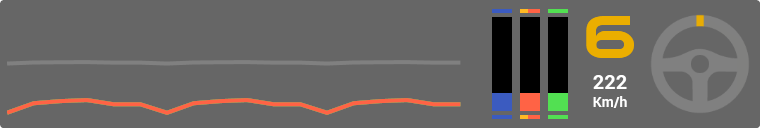
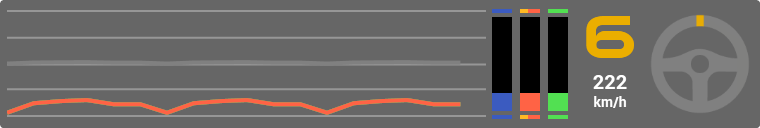
Added Guide Lines to the Input Telemetry overlay

diff --git a/Plugin/SettingsControl.xaml b/Plugin/SettingsControl.xaml
@@ -115,6 +115,13 @@
                                 IsChecked="{Binding Plugin.Modules[TelemetryModule].Settings.HandbrakeTraceVisible, Mode=TwoWay, UpdateSourceTrigger=PropertyChanged}">
                                 Handbrake Trace
                             </styles:SHToggleCheckbox>
+
+                            <styles:SHToggleCheckbox 
+                                ToolTip="Show guide lines on the trace chart" 
+                                HorizontalAlignment="Left" Margin="10,0,4,4"
+                                IsChecked="{Binding Plugin.Modules[TelemetryModule].Settings.GuideLinesVisible, Mode=TwoWay, UpdateSourceTrigger=PropertyChanged}">
+                                Show Guide Lines
+                            </styles:SHToggleCheckbox>
                         </StackPanel>
 
                         <ui:TitledSlider Title="Traces Width" Maximum="500" Minimum="100" Value="{Binding Plugin.Modules[TelemetryModule].Settings.TracesWidth, Mode=TwoWay, UpdateSourceTrigger=PropertyChanged}" />

diff --git a/Plugin/Modules/Telemetry.cs b/Plugin/Modules/Telemetry.cs
@@ -84,6 +84,21 @@ namespace benofficial2.Plugin
             }
         }
 
+        private bool _guideLinesVisible = true;
+
+        public bool GuideLinesVisible
+        {
+            get { return _guideLinesVisible; }
+            set
+            {
+                if (_guideLinesVisible != value)
+                {
+                    _guideLinesVisible = value;
+                    OnPropertyChanged(nameof(GuideLinesVisible));
+                }
+            }
+        }
+
         private bool _pedalsVisible = true;
 
         public bool PedalsVisible
@@ -177,6 +192,7 @@ namespace benofficial2.Plugin
             plugin.AttachDelegate(name: "Telemetry.TracesWidth", valueProvider: () => Settings.TracesWidth);
             plugin.AttachDelegate(name: "Telemetry.HandbrakeTraceVisible", valueProvider: () => Settings.HandbrakeTraceVisible);
             plugin.AttachDelegate(name: "Telemetry.SteeringTraceVisible", valueProvider: () => Settings.SteeringTraceVisible);
+            plugin.AttachDelegate(name: "Telemetry.GuideLinesVisible", valueProvider: () => Settings.GuideLinesVisible);
             plugin.AttachDelegate(name: "Telemetry.PedalsVisible", valueProvider: () => Settings.PedalsVisible);
             plugin.AttachDelegate(name: "Telemetry.PedalsLeft", valueProvider: () => PedalsLeft);
             plugin.AttachDelegate(name: "Telemetry.SteeringVisible", valueProvider: () => Settings.SteeringVisible);
